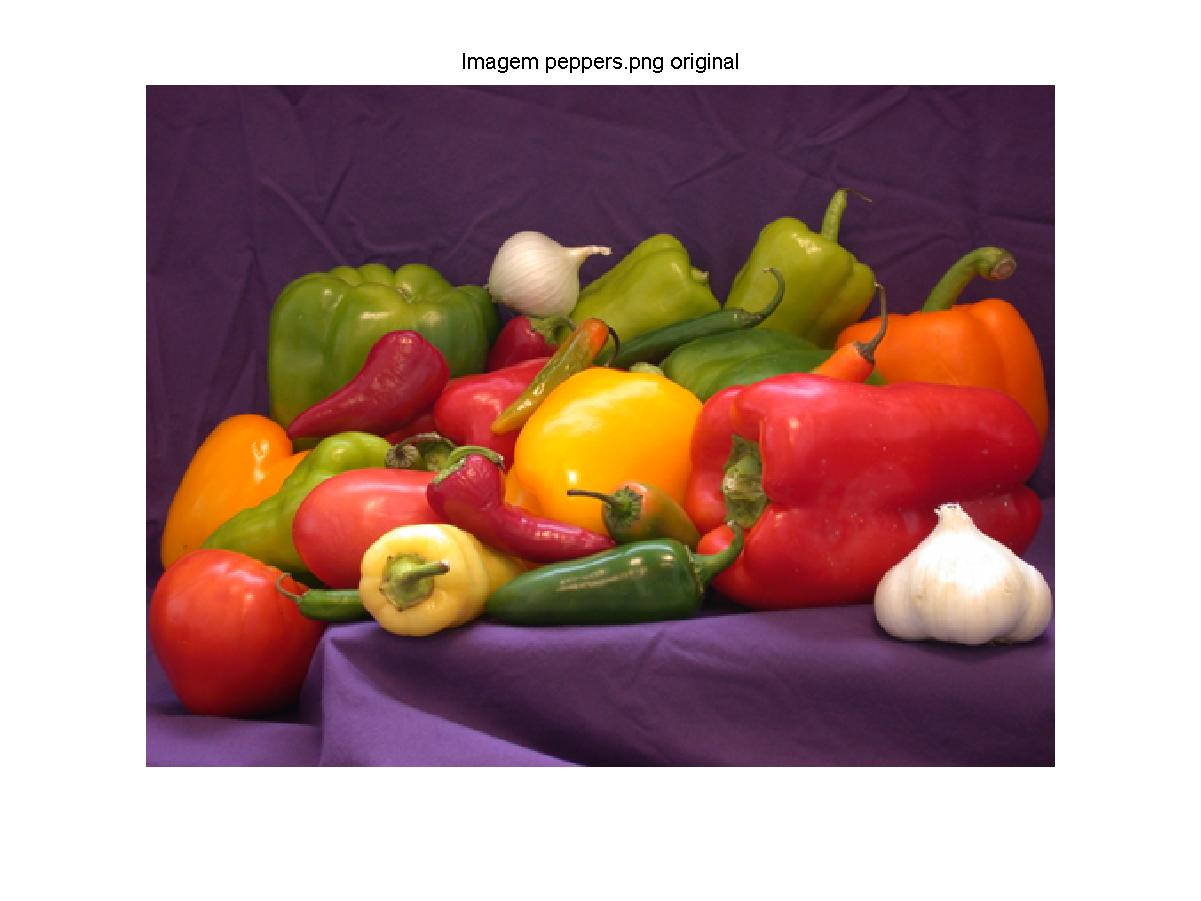
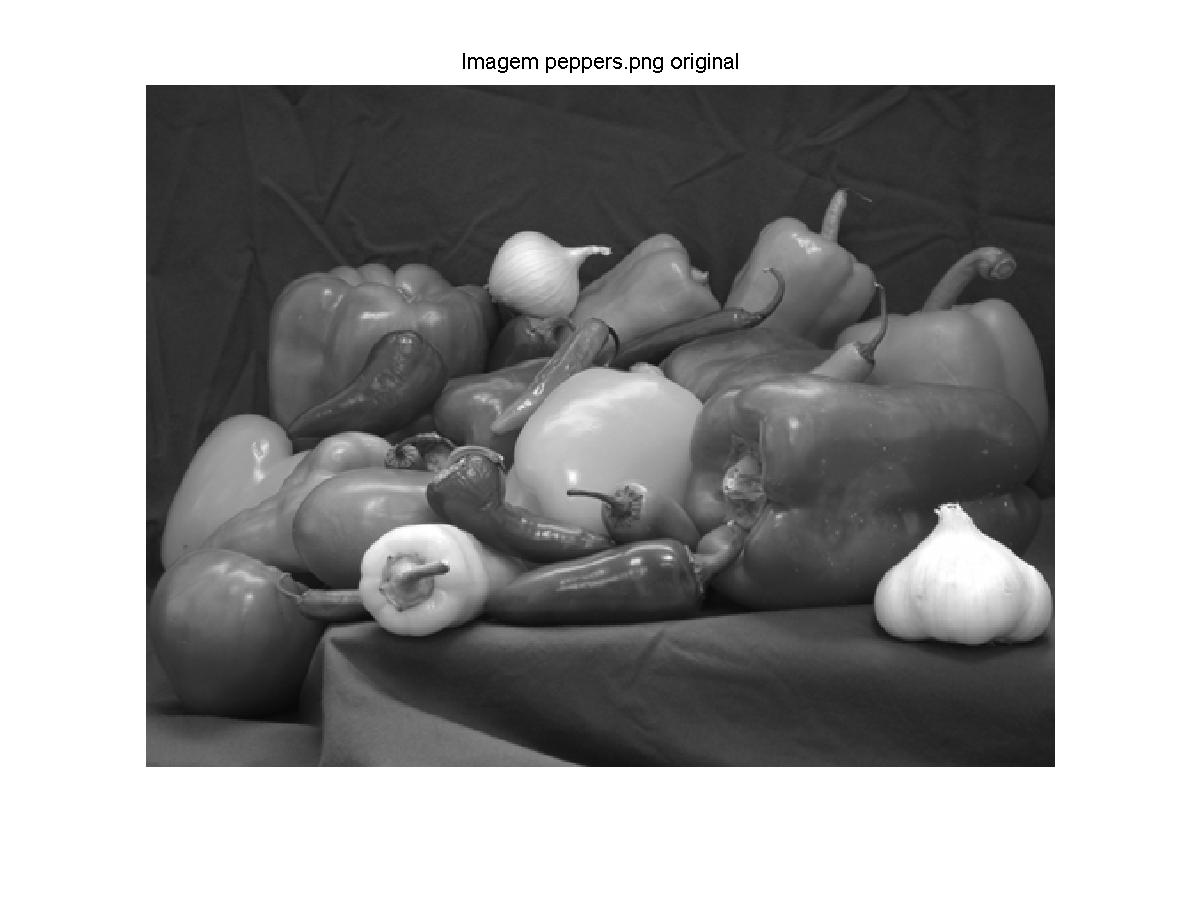
Exercise 3 Done! Misson Complete! (y)

diff --git a/Assignment 4/Code/calc_componentes.m b/Assignment 4/Code/calc_componentes.m
@@ -4,6 +4,7 @@ function[] = calc_componentes()
     
     %exercise 1    
         [image, map] = imread('peppers.png');
+        image = rgb2gray(image);
         imshow(image);
         title('Imagem peppers.png original');
         saveas(gcf, '../Output/original_image', 'jpg');
@@ -11,22 +12,26 @@ function[] = calc_componentes()
     %exercise 2
         %shift de 2 pixels na horizontal
         h_shift_image = circshift(image,[0 2]);
+        imshow(h_shift_image);
         title('Imagem peppers.png com shift horizontal');
         saveas(gcf, '../Output/h_shift_image', 'jpg');
-        imshow(h_shift_image);
 
         %shift de 2 pixels na vertical
         v_shift_image = circshift(image,[2 0]);
+        imshow(v_shift_image);
         title('Imagem peppers.png com shift vertical');
         saveas(gcf, '../Output/v_shift_image', 'jpg');
-        imshow(v_shift_image);
-
+                
         %shift de 2 pixels na diagonal
         d_shift_image = circshift(image,[2 2]);
+        imshow(d_shift_image);
         title('Imagem peppers.png com shift diagonal');
         saveas(gcf, '../Output/d_shift_image', 'jpg');
-        imshow(d_shift_image);
         
+    %exercise 3 
+        calc_fluxo(image, h_shift_image, 'shift horizontal');
+        calc_fluxo(image, v_shift_image, 'shift vertical');
+        calc_fluxo(image, d_shift_image, 'shift diagonal');
         
     close all
     
